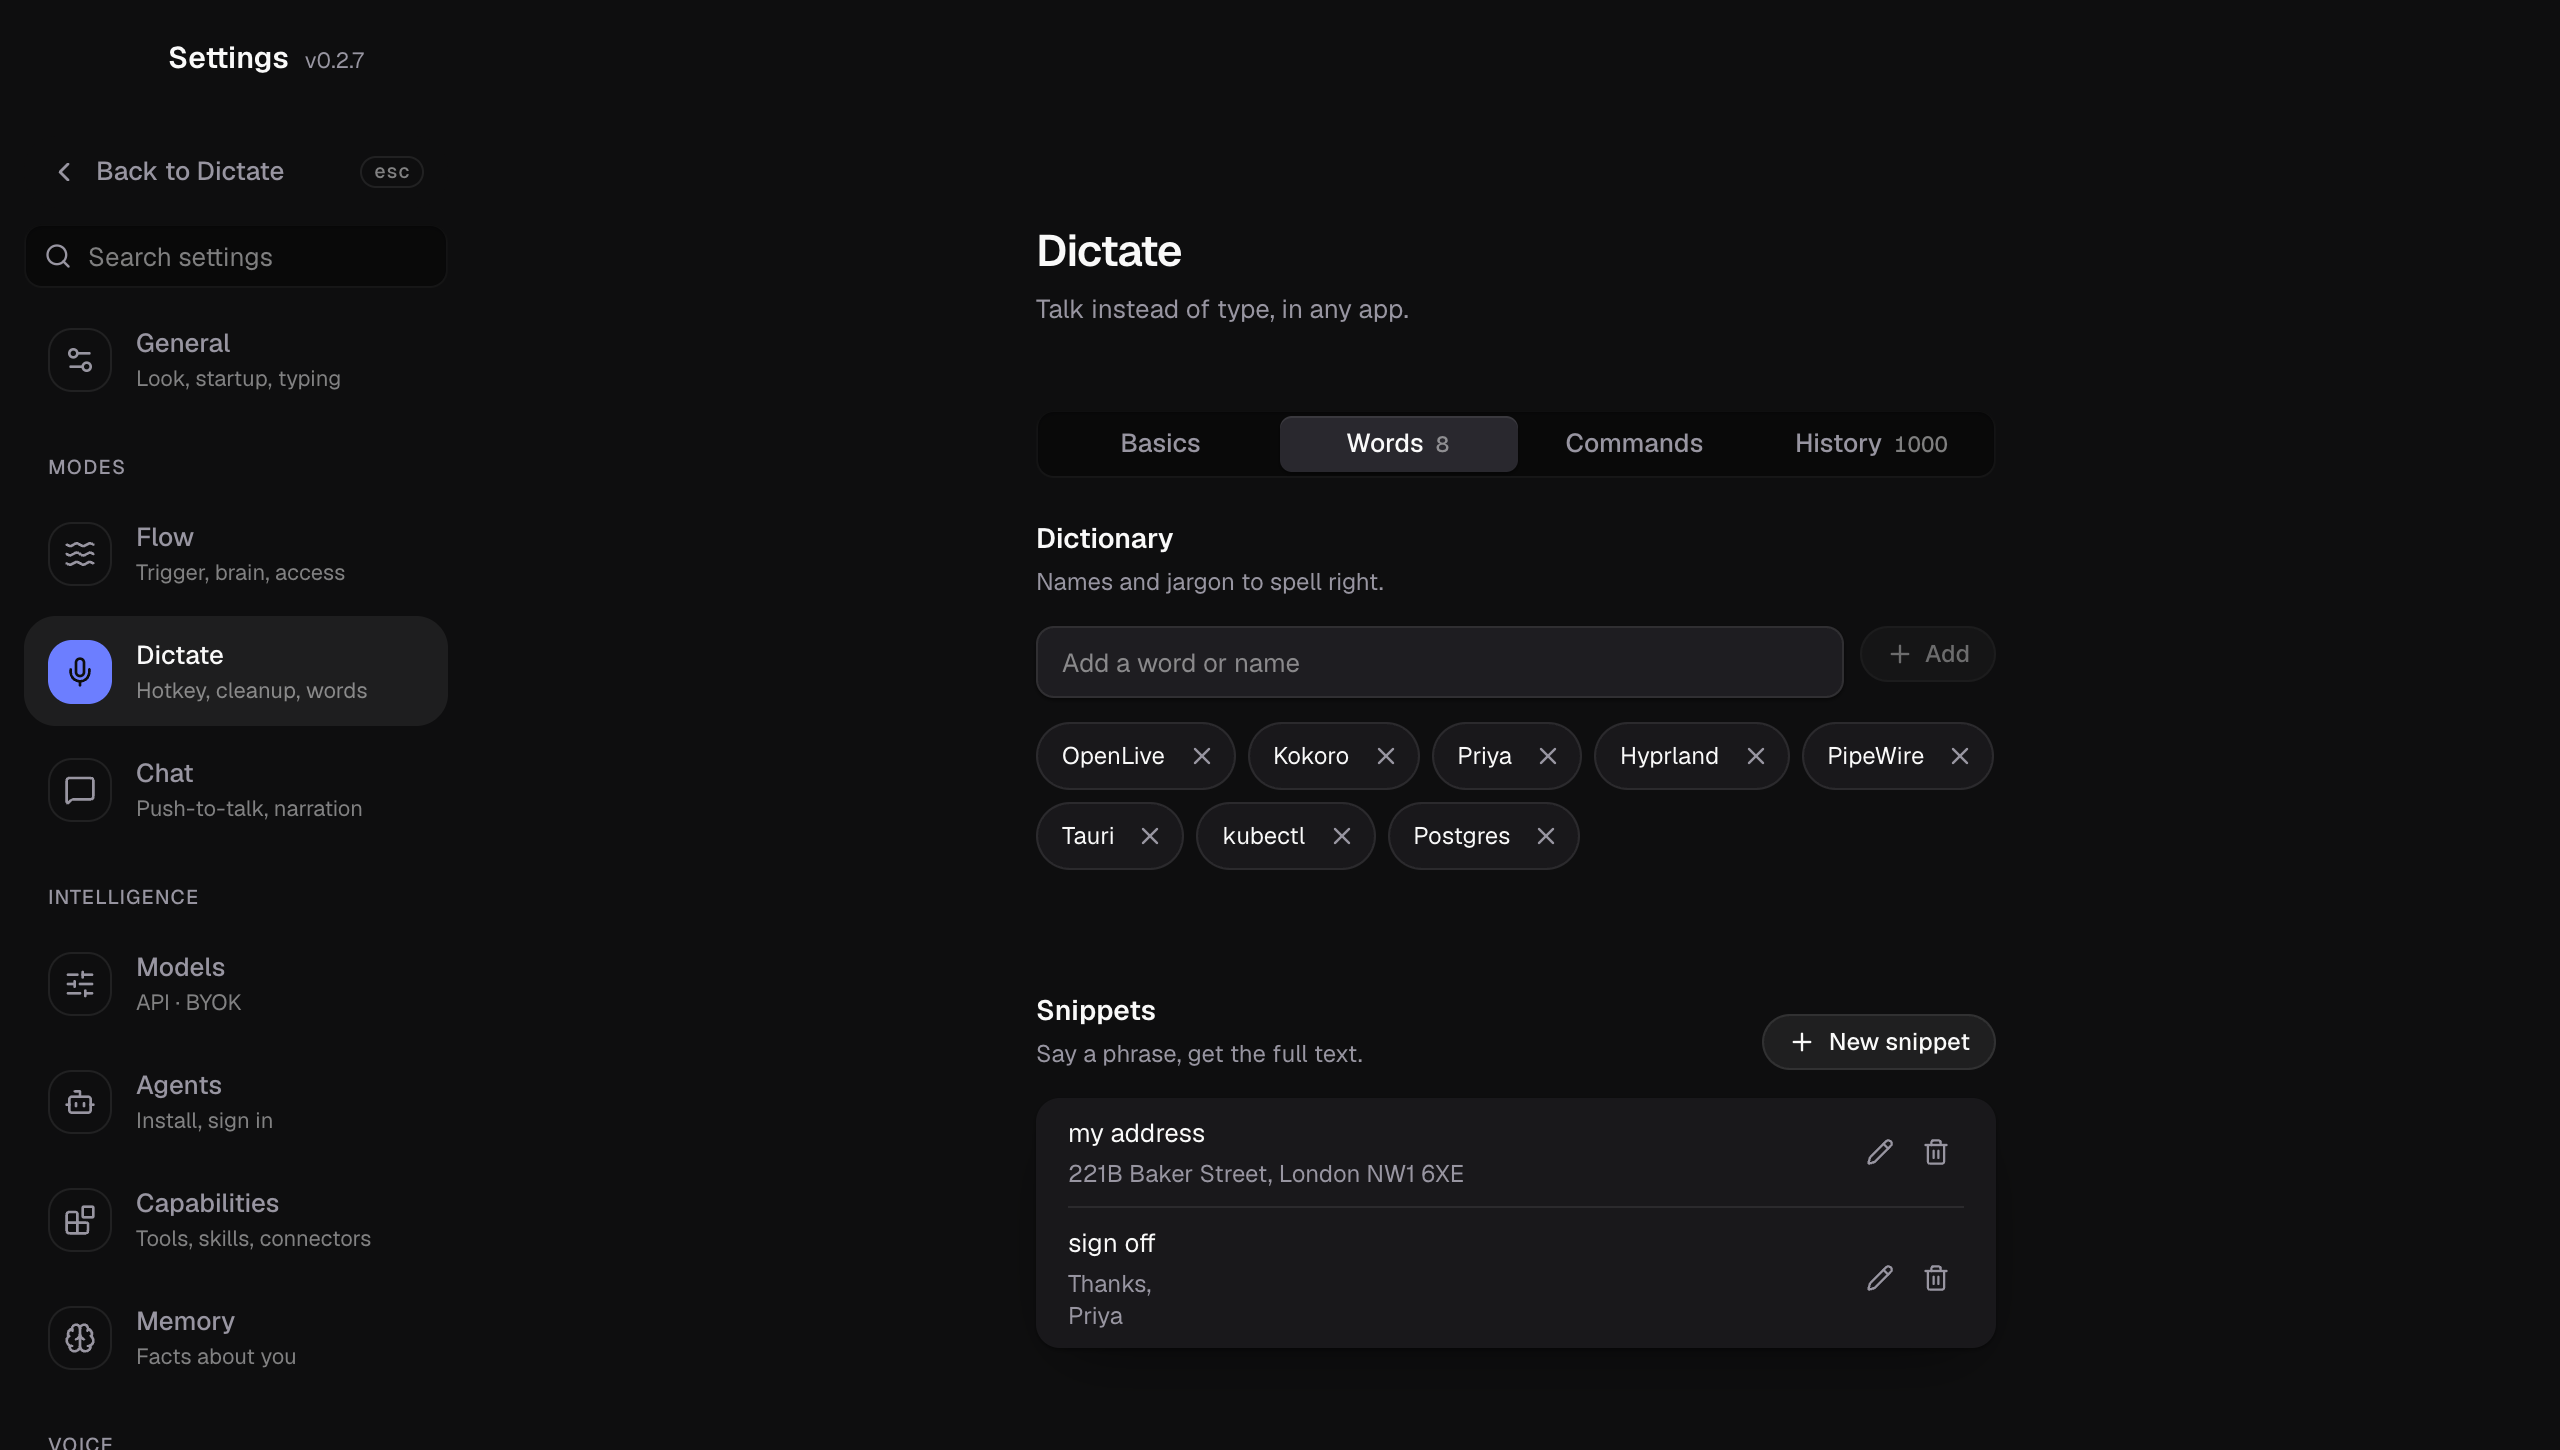
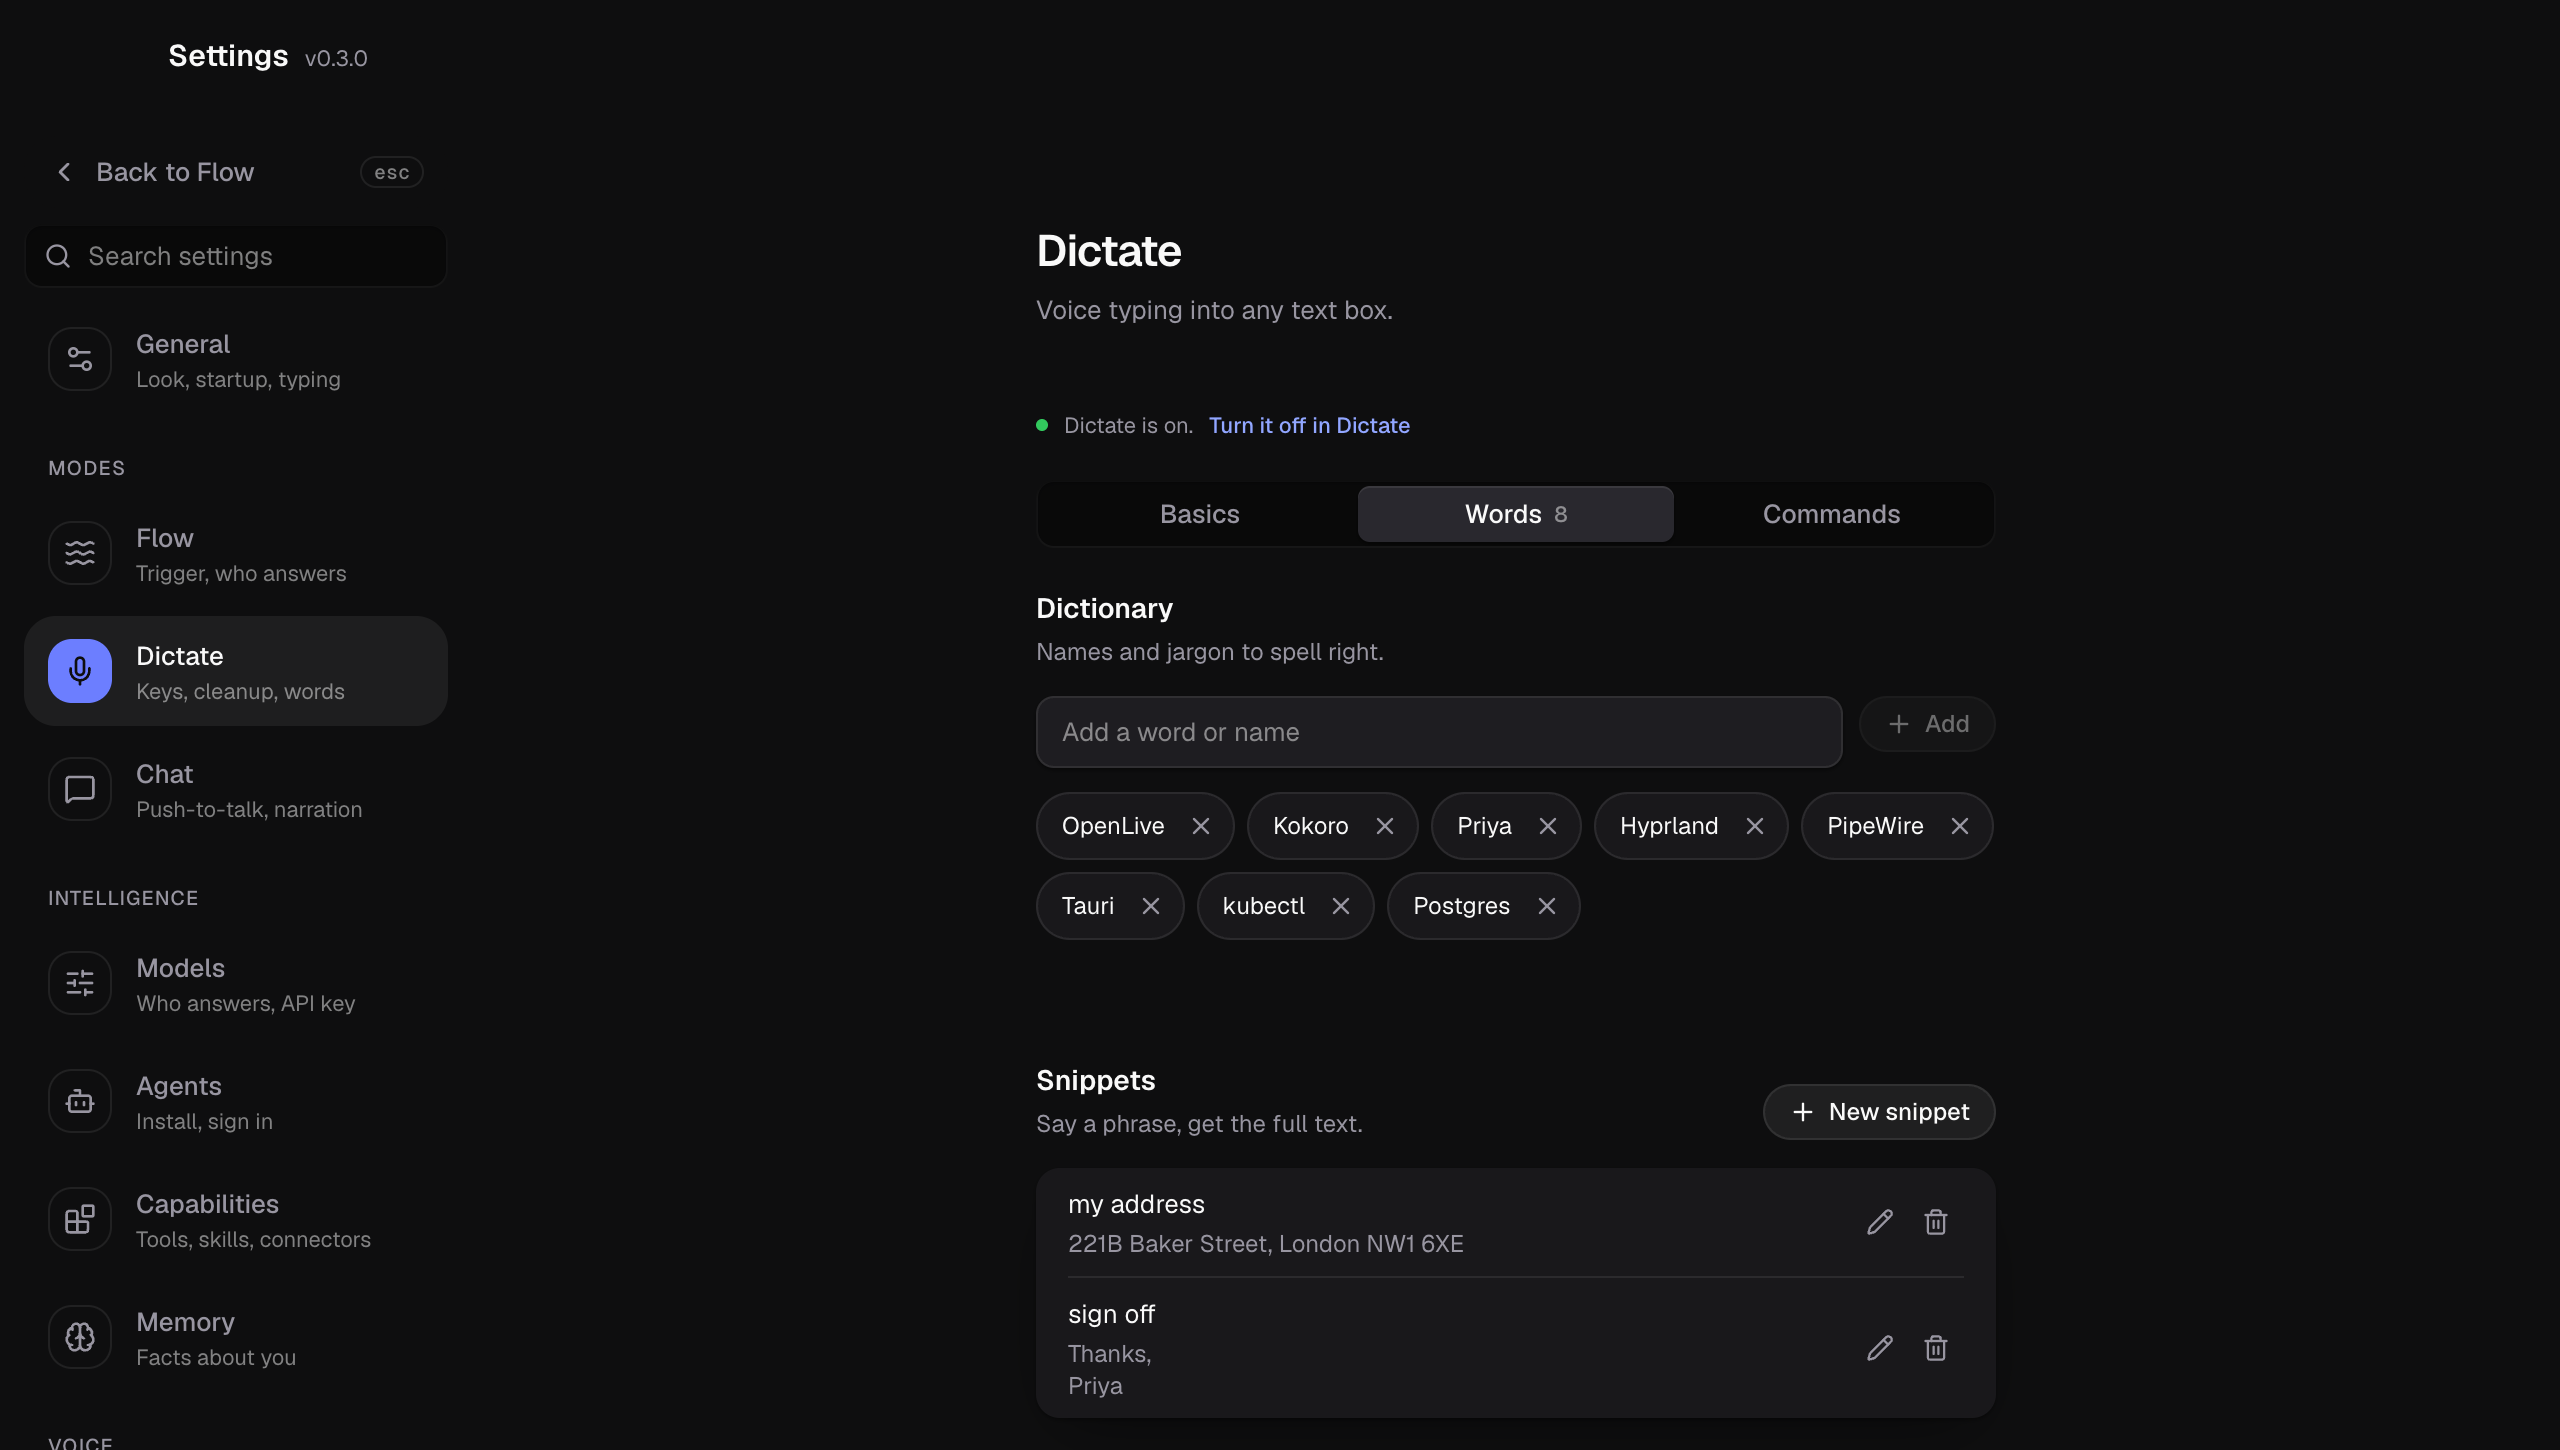
docs: fresh Flow home, Settings > Flow and Dictate screenshots from the packaged app, and Dictate's home

diff --git a/README.md b/README.md
@@ -209,7 +209,7 @@ Dictate's home; the tray has the same switch. See [docs/DICTATE.md](docs/DICTATE
 | **A failure card with its fix** | **Settings, Flow** |
 | ![Flow failure card](assets/flow-orb-failure.png) | ![Settings, Flow](assets/flow-settings.png) |
 | **Dictate, words and snippets** | |
-| ![Settings, Dictate, Words](assets/dictate.png) | |
+| ![Settings, Dictate, Words](assets/dictate.png) | ![Dictate home](assets/dictate-home.png) |
 
 ## Why on-device voice matters
 

diff --git a/docs/DICTATE.md b/docs/DICTATE.md
@@ -39,6 +39,8 @@ behaves is in Settings > Dictate, and nothing is in both places.
  Settings ›                               Commands: command key, spoken commands
 ```
 
+![Dictate's home](../assets/dictate-home.png)
+
 - **The switch**: **Dictate is on** or **Dictate is off**. The tray (menu bar)
   menu has the same switch: **Turn Dictate on** or **Turn Dictate off**, under
   a line that says how it stands (**Dictate is on · Hold Right ⌥**, **Dictate
